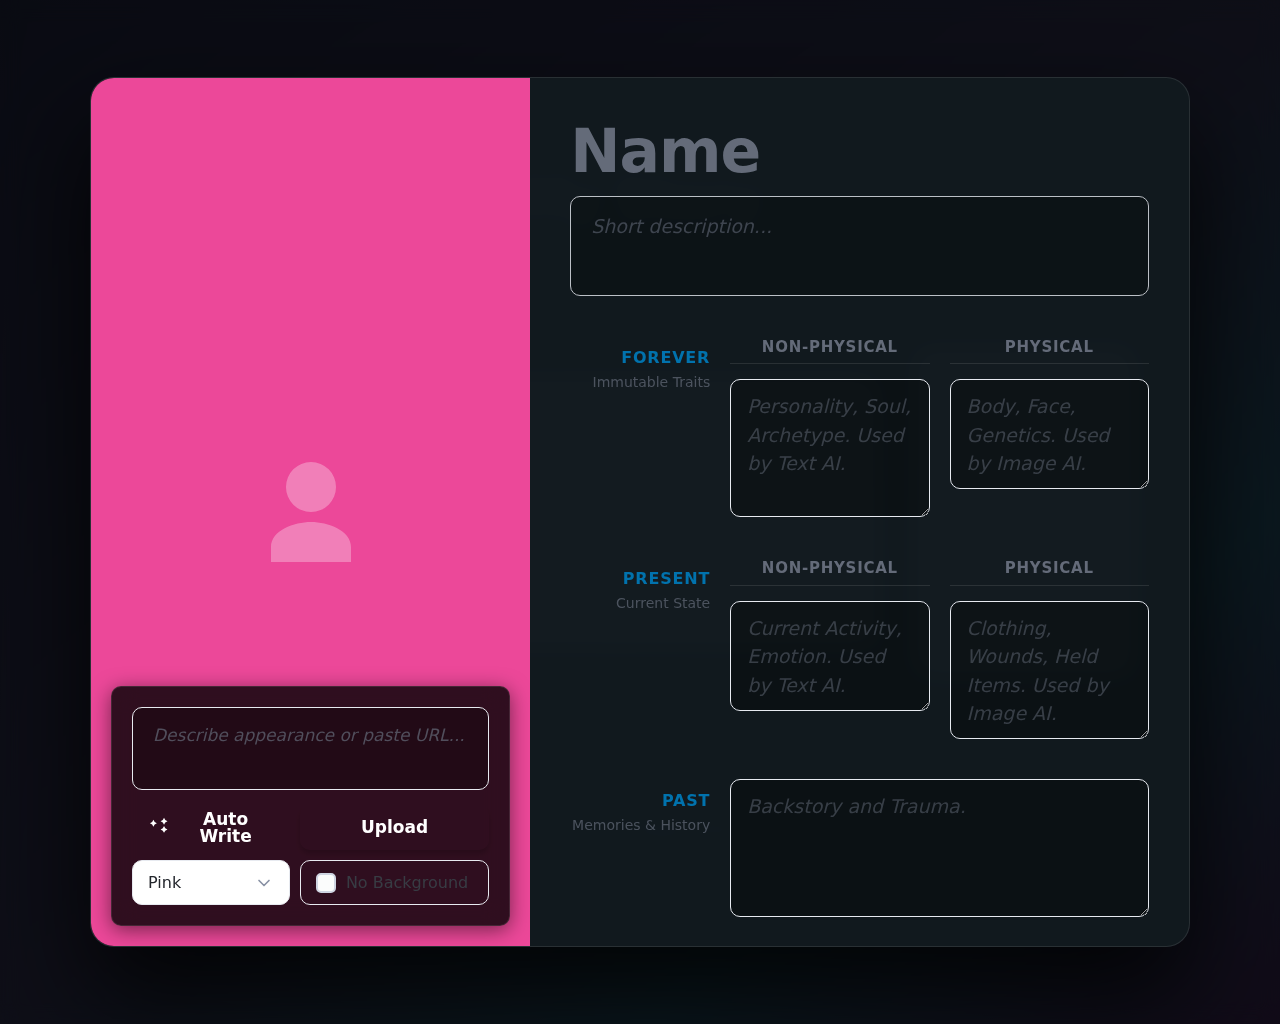
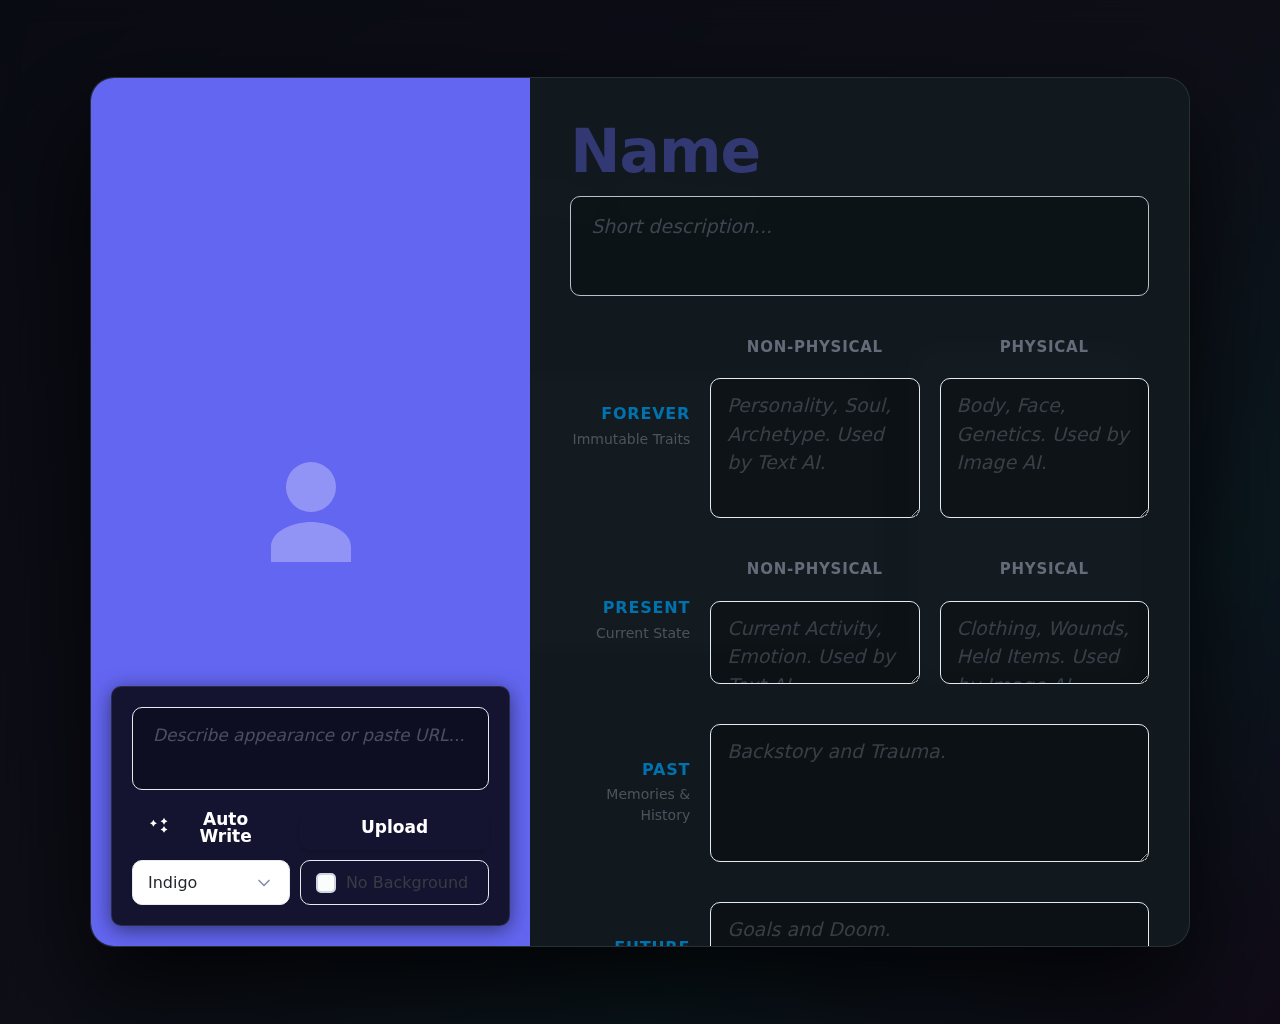
Refactor Profile UI to Master 2-Column Grid
- Implements strict 2-column grid layout (`.profile-row`) in `_profile.scss` with vertically centered labels.
- Updates `view.js` and `edit.js` to share identical DOM structure.
- Implements 50/50 split layout (`.split-content`) for "Forever" and "Present" sections with equal-height columns.
- Adds semantic Sub-Labels (e.g., "Immutable Traits") to all profile sections.
- Removes legacy flex-column styles and all divider lines/borders from headers.
- Styles name placeholder to use signature color with opacity.

diff --git a/apps/rpglitch/scss/components/_profile.scss b/apps/rpglitch/scss/components/_profile.scss
@@ -328,6 +328,11 @@
     border-bottom: 2px solid var(--pico-primary);
   }
 
+  &::placeholder {
+     color: var(--signature-color, var(--pico-muted-color));
+     opacity: 0.4;
+  }
+
   @include mobile {
     font-size: 2rem;
   }
@@ -358,17 +363,17 @@
 /* --- MAESTRO LAYOUT SYSTEM (2-Column Grid) --- */
 .profile-row {
   display: grid;
-  grid-template-columns: minmax(120px, 140px) 1fr;
+  grid-template-columns: minmax(80px, 120px) 1fr; // Tighter label column
   gap: var(--space-md);
   margin-bottom: 2rem;
-  align-items: flex-start;
+  align-items: center; // Vertically center labels
   width: 100%;
 
   .label-group {
     text-align: right;
     display: flex;
     flex-direction: column;
-    padding-top: 0.6rem; // Visual alignment with input text top
+    // Removed padding-top since we are centering
 
     .main-label {
       font-weight: 800;
@@ -402,6 +407,7 @@
   grid-template-columns: 1fr 1fr;
   gap: var(--space-md);
   width: 100%;
+  align-items: stretch; // Ensure equal height columns
 
   .split-column {
     display: flex;
@@ -409,6 +415,7 @@
     gap: 0.5rem;
     width: 100%;
     min-width: 0;
+    height: 100%; // Fill grid cell
 
     .split-header {
       text-align: center;
@@ -418,7 +425,7 @@
       text-transform: uppercase;
       letter-spacing: 0.05em;
       margin-bottom: 0.25rem;
-      border-bottom: 1px solid rgba(255, 255, 255, 0.1);
+      // Removed border-bottom per "No Lines" request
       padding-bottom: 0.25rem;
     }
   }
@@ -442,6 +449,7 @@
     background-color 0.2s,
     border-color 0.2s;
   display: block;
+  flex: 1; // Grow to fill split column (Equal Heights)
 
   &:focus {
     outline: none;
